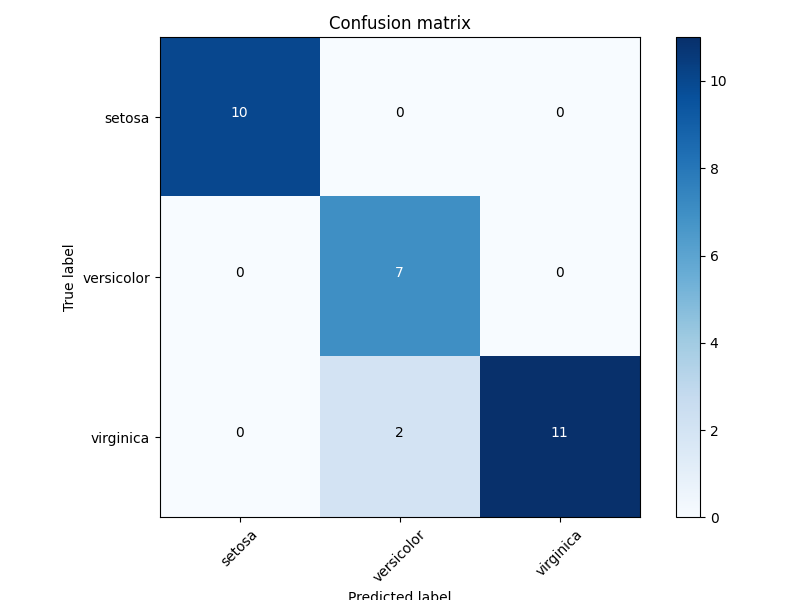
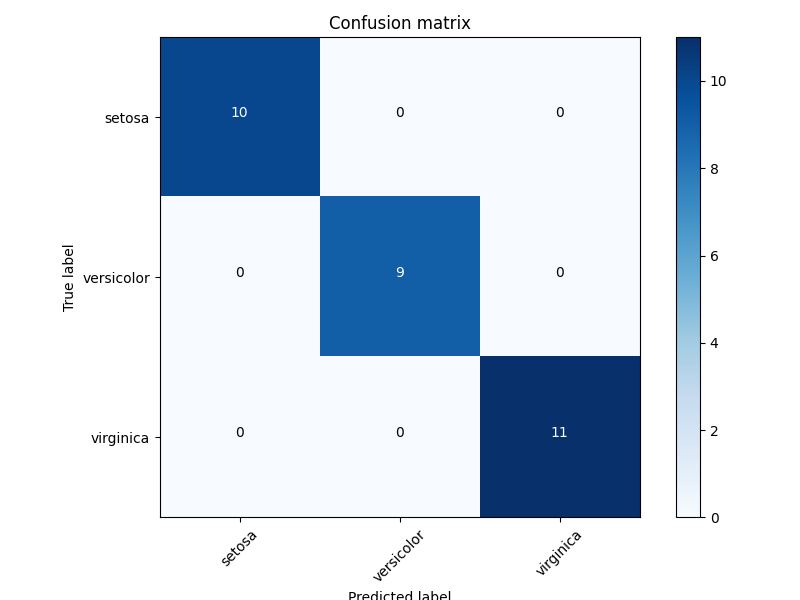
ADD the module evaluate

Changed region(s): [[0.375, 0.3, 0.625, 0.87]]

diff --git a/course_ds_base/src/stages/evaluate.py b/course_ds_base/src/stages/evaluate.py
@@ -1,0 +1,54 @@
+"""
+This is the module for evaluation
+Stage 5 in pipeline
+"""
+
+import pandas as pd
+import yaml
+from typing import Text
+from sklearn.model_selection import train_test_split
+import argparse
+from sklearn.datasets import load_iris
+import joblib
+import json
+
+from sklearn.metrics import f1_score, confusion_matrix
+from src.report.visualize import plot_confusion_matrix
+
+def evaluate_model(config_path: Text) -> None:
+    """ Evaluate the model
+    Args:
+        config_path {Text}: Path to config file
+    """
+    print("Evaluating the model...")
+    with open(config_path) as config_path:
+        config = yaml.safe_load(config_path)
+    
+    model = joblib.load(config['train']['model_path'])
+
+    test_dataset = pd.read_csv(config['data']['testset_path'])
+    target_column = config['featurize']['target_column']
+
+    X_test = test_dataset.drop(target_column, axis=1).values.astype('float32')
+    y_test = test_dataset.loc[:, target_column].values.astype('int32')
+    
+    test_prediction = model.predict(X_test)
+    cm = confusion_matrix(test_prediction, y_test)
+    f1 = f1_score(y_true = y_test, y_pred = test_prediction, average='macro')
+
+    metrics = {
+    'f1': f1
+    }
+
+    with open(config['reports']['metrics_file'], 'w') as mf:
+        json.dump(
+            obj=metrics,
+            fp=mf,
+            indent=4
+        )
+
+    data = load_iris(as_frame=True)
+    cm_plot = plot_confusion_matrix(cm, data.target_names, normalize=False)
+    cm_plot.savefig(config['reports']['confusion_matrix_image'])
+
+    print("Model evaluated. Metric and confusion matrix saved.\n")
